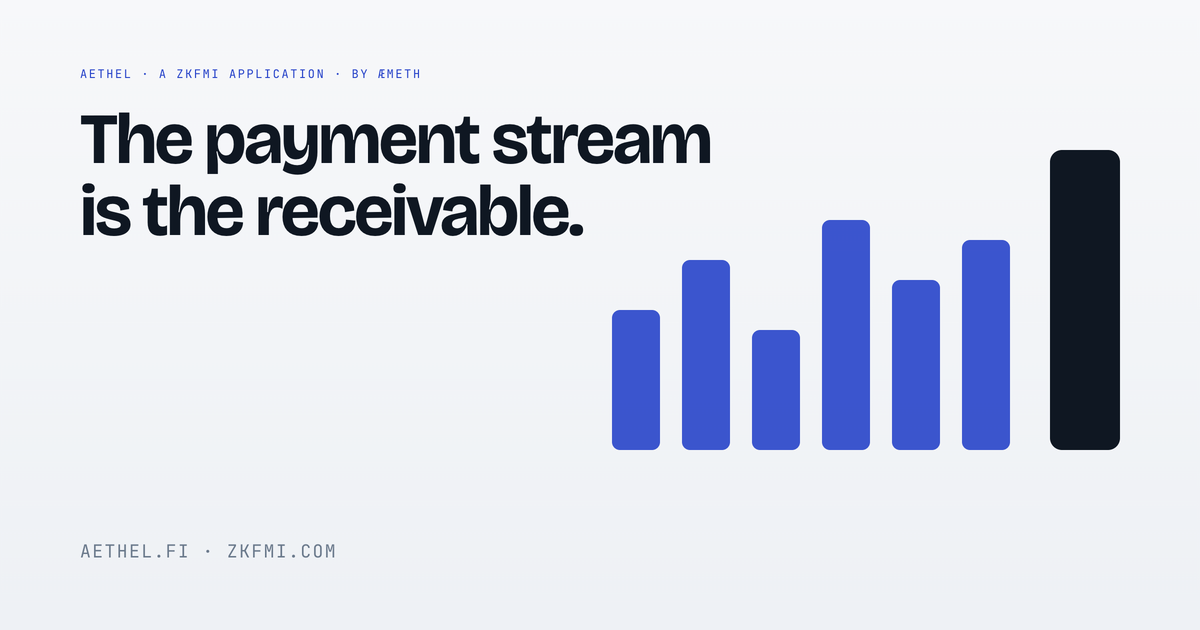
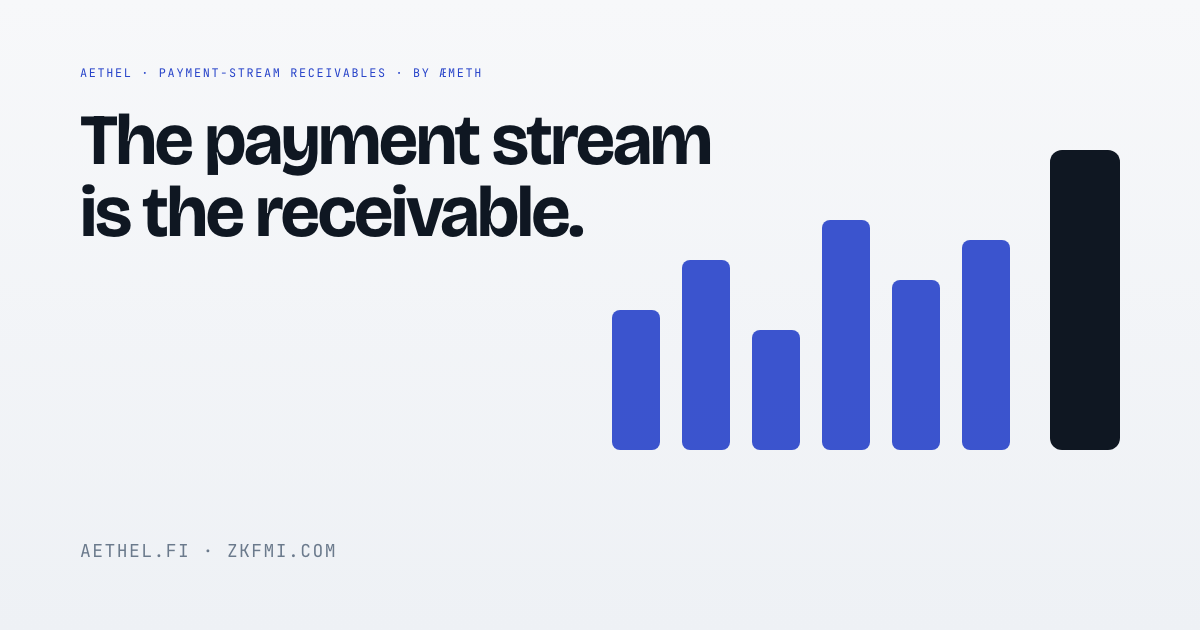
Describe the two settlement rails and the ports the book reaches them through
Add a Rails section (zkFMI rail, attested rail, SettlementRail and
QualificationPort), make the hero, lifecycle, boundaries, pilot and
status copy rail-neutral with zkFMI named as one rail, record the
2026-09-13 gate run, and re-render the social card.

diff --git a/static/style.css b/static/style.css
@@ -196,13 +196,21 @@ footer .end{grid-column:1/-1;display:flex;flex-wrap:wrap;gap:1.2rem 2rem;padding
 footer .end span{margin-right:auto}
 footer .end a:hover{color:var(--ink)}
 
+/* rails --------------------------------------------------------------- */
+.rails{display:grid;grid-template-columns:1fr 1fr;gap:1.2rem}
+.rails .crate{font-family:var(--mono);font-size:.78rem;color:var(--ink-3);letter-spacing:.02em}
+.ports{margin-top:1.2rem;display:grid;grid-template-columns:1fr 1fr;gap:1.2rem}
+.port{background:var(--bg-2);border:1px solid var(--line);border-radius:var(--r);padding:1.2rem 1.4rem;display:flex;flex-direction:column;gap:.5rem}
+.port code{font-family:var(--mono);font-size:.82rem;color:var(--blue)}
+.port p{margin:0;color:var(--ink-2);font-size:.93rem}
+
 /* responsive ----------------------------------------------------------- */
 @media(max-width:1000px){
   .hero-grid{grid-template-columns:1fr}
   .cards,.conf{grid-template-columns:1fr 1fr}
   .stages{grid-template-columns:1fr 1fr 1fr}
   .head{grid-template-columns:1fr;gap:.5rem}
-  .pilot,.limits{grid-template-columns:1fr}
+  .pilot,.limits,.rails,.ports{grid-template-columns:1fr}
 }
 @media(max-width:700px){
   .wrap{width:calc(100% - 2.5rem)}

diff --git a/brand/og.html b/brand/og.html
@@ -13,7 +13,7 @@ html,body{margin:0;width:1200px;height:630px;overflow:hidden;background:var(--bg
 .og .bars b{display:block;width:70px;height:300px;background:var(--ink);border-radius:12px;margin-left:18px}
 </style></head>
 <body><div class="og">
-<div><p class="eyebrow">Aethel · a zkFMI application · by æmeth</p><h1>The payment stream is the receivable.</h1></div>
+<div><p class="eyebrow">Aethel · payment-stream receivables · by æmeth</p><h1>The payment stream is the receivable.</h1></div>
 <div class="bars"><i style="height:140px"></i><i style="height:190px"></i><i style="height:120px"></i><i style="height:230px"></i><i style="height:170px"></i><i style="height:210px"></i><b></b></div>
 <div class="foot">aethel.fi · zkfmi.com</div>
 </div></body></html>

diff --git a/build.py b/build.py
@@ -27,29 +27,29 @@ def wm():
 COPY = {
  'en': {
   'title': 'Aethel — the payment stream is the receivable',
-  'description': 'Aethel turns a payment stream both parties have signed into a receivable that independent credit assessors, guarantors, liquidity providers and servicers act on with separately signed authority, and settles it through a pluggable settlement rail, zkFMI first, without holding the cash.',
-  'nav': [('product', 'Product'), ('lifecycle', 'Lifecycle'), ('providers', 'Providers'), ('boundaries', 'Boundaries'), ('pilot', 'Pilot'), ('status', 'Status')],
-  'eyebrow': 'Aethel · a zkFMI application', 'by': 'by æmeth',
+  'description': 'Aethel turns a payment stream both parties have signed into a receivable that independent credit assessors, guarantors, liquidity providers and servicers act on with separately signed authority, and settles it through a settlement rail it does not own, zkFMI or any system that returns signed attestations, without holding the cash.',
+  'nav': [('product', 'Product'), ('lifecycle', 'Lifecycle'), ('providers', 'Providers'), ('boundaries', 'Boundaries'), ('rails', 'Rails'), ('pilot', 'Pilot'), ('status', 'Status')],
+  'eyebrow': 'Aethel · payment-stream receivables', 'by': 'by æmeth',
   'h1': 'The payment stream is the receivable.',
-  'lede': 'Aethel takes a payment stream that both parties have signed and turns it into a receivable that independent credit assessors, guarantors, liquidity providers and servicers can act on, each with its own signed authority. It settles through a pluggable settlement rail, zkFMI being the first, and never holds the cash.',
+  'lede': 'Aethel takes a payment stream that both parties have signed and turns it into a receivable that independent credit assessors, guarantors, liquidity providers and servicers can act on, each with its own signed authority. It settles through a settlement rail it does not own, zkFMI or any system that returns signed attestations, and never holds the cash.',
   'cta': 'See the lifecycle', 'cta2': 'Enterprise PoC guide',
   'side_b': 'Built for the teams who run origination, credit, funding and servicing.',
   'side': 'Nothing here is a marketplace or a lender. Aethel is the state machine those teams plug their own providers into, and the record they can audit afterwards.',
-  'hero_note': ['Rust state machine', '12 crates', 'Research implementation', 'Not audited'],
+  'hero_note': ['Rust state machine', '13 crates', 'zkFMI or attested rail', 'Research implementation', 'Not audited'],
   'dg': {
     'stream_lbl': 'SIGNED PAYMENT STREAM', 'stream_id': 'strm-8f2c · v3', 'stream_sig': 'signed: obligor · creditor', 'stream_att': 'attested by StreamAttestor',
     'ticks': ['M+1', 'M+2', 'M+3', 'M+4', 'M+5', 'M+6'],
-    'rcv_lbl': 'RECEIVABLE', 'rcv_id': 'rcv-0142 · series S-07', 'rcv_pol': 'policy: guarantee required · DeKYX qualification',
-    'att': [('CreditDecision', 'signed · valid to 2026-10-01', 'CreditAssessor'), ('GuaranteeCommitment', 'committed · amount confidential', 'Guarantor · DeCCP hold'), ('FundingQuote', 'accepted', 'LiquidityProvider')],
-    'set_lbl': 'SETTLEMENT', 'set_1': 'zkPI instruction', 'set_1b': 'typed · nullifier · proof', 'set_2': 'DeFMI settles', 'set_2b': 'both legs, or neither',
-    'set_ev': 'evidence validated by host', 'set_state': 'Aethel state → Issued',
-    'out_paid': 'paid → Closed', 'out_def': 'default → GuaranteeClaim → DeCCP',
-    'cap': 'One receivable, four signatures from four providers, one settlement. Aethel keeps the meaning; DeFMI moves the value.',
+    'rcv_lbl': 'RECEIVABLE', 'rcv_id': 'rcv-0142 · series S-07', 'rcv_pol': 'policy: guarantee required · qualification via port',
+    'att': [('CreditDecision', 'signed · valid to 2026-10-01', 'CreditAssessor'), ('GuaranteeCommitment', 'committed · amount confidential', 'Guarantor · rail hold'), ('FundingQuote', 'accepted', 'LiquidityProvider')],
+    'set_lbl': 'SETTLEMENT RAIL', 'set_1': 'Issuance witness', 'set_1b': 'zkPI instruction, or signed attestation', 'set_2': 'The rail settles', 'set_2b': 'DeFMI, or the operator’s ledger',
+    'set_ev': 'evidence verified through the port', 'set_state': 'Aethel state → Issued',
+    'out_paid': 'paid → Closed', 'out_def': 'default → GuaranteeClaim → rail',
+    'cap': 'One receivable, four signatures from four providers, one settlement. Aethel keeps the meaning; the rail moves the value.',
   },
   'dg_list': [
     ('Signed payment stream', 'Both parties sign the schedule and terms; an attestor confirms it. Every update is a new version.'),
     ('Receivable', 'A series policy admits the stream. A credit decision, a guarantee and a funding quote attach, each signed by a different provider and bound to this receivable only.'),
-    ('Settlement', 'Issuance becomes a typed zkPI instruction. DeFMI settles it and Aethel records the evidence. Paid closes it; default binds a guarantee claim.'),
+    ('Settlement', 'The rail witnesses issuance: a settled zkPI instruction on zkFMI, an operator-signed settlement on the attested rail. Aethel records the evidence. Paid closes it; default binds a guarantee claim.'),
   ],
 
   'prod_eb': 'What Aethel is', 'prod_h2': 'Not another ledger of invoices. A state machine for obligations.',
@@ -64,10 +64,10 @@ COPY = {
   'life_p': 'The core is deterministic: the same inputs always produce the same state. What makes it useful is what it rejects.',
   'stages': [
     ('01 · Register', 'Attest the stream, open a series', 'The stream attestor confirms the payment stream and its updates. A series defines which streams are eligible and under what policy.', ['unsigned stream, or a version that does not match', 'the same obligation registered twice']),
-    ('02 · Assess & cover', 'Signed decisions, committed cover', 'A credit assessor signs a decision for this receivable. A guarantor commits coverage backed by a DeCCP facility; the amount can stay confidential.', ['expired decision', 'policy requires a guarantee and none is attached', 'artifact signed under the wrong capability']),
-    ('03 · Fund & issue', 'Quotes compete, the receivable is issued', 'Liquidity providers submit executable quotes. Issuance creates a typed zkPI instruction; DeFMI settles it and Aethel records the evidence.', ['final state before settlement evidence', 'quote from an unregistered provider', 'supply above the obligation']),
+    ('02 · Assess & cover', 'Signed decisions, committed cover', 'A credit assessor signs a decision for this receivable. A guarantor commits coverage from a facility the rail vouches for: a DeCCP hold on zkFMI, an operator-signed hold on the attested rail. The amount can stay confidential.', ['expired decision', 'policy requires a guarantee and none is attached', 'artifact signed under the wrong capability']),
+    ('03 · Fund & issue', 'Quotes compete, the receivable is issued', 'Liquidity providers submit executable quotes. Issuance is witnessed by the rail, a settled zkPI instruction or a signed attestation, and Aethel records the evidence.', ['final state before settlement evidence', 'quote from an unregistered provider', 'supply above the obligation']),
     ('04 · Service', 'Evidence in, state out', 'Payment evidence, delinquency, cure and permitted servicing actions are recorded by the servicer. A retried request applies once.', ['the same settlement result applied twice', 'servicing action outside the capability']),
-    ('05 · Close or claim', 'Paid closes. Default claims.', 'A paid obligation closes the receivable. A default attestation binds evidence to a guarantee claim; loss allocation runs in DeCCP, settlement in DeFMI.', ['claim without a default attestation', 'release by an unauthorised provider']),
+    ('05 · Close or claim', 'Paid closes. Default claims.', 'A paid obligation closes the receivable. A default attestation binds evidence to a guarantee claim; the rail allocates the loss and settles it, DeCCP and DeFMI on zkFMI.', ['claim without a default attestation', 'release by an unauthorised provider']),
   ],
   'refuses': 'Refused',
   'states_lbl': 'records', 'states': ['RegisteredStream', 'ReceivableSeries', 'CreditDecision', 'GuaranteeCommitment', 'FundingQuote', 'ReceivableIssuance', 'DefaultAttestation', 'GuaranteeClaim', 'ProviderDefinition'],
@@ -75,9 +75,9 @@ COPY = {
   'prov_eb': 'Open provider model', 'prov_h2': 'Six capabilities. None implies another.',
   'prov_p': 'Providers register with narrowly scoped capabilities and sign only the artifacts they are responsible for. A credit assessment cannot quietly act as a guarantee; a guarantor cannot issue a funding quote unless separately authorised. One company may hold several capabilities, each granted and revoked on its own.',
   'mx_cols': ['Stream attestation', 'Credit decision', 'Guarantee', 'Funding quote', 'Servicing action', 'Issuer vouch'],
-  'mx_rows': [('StreamAttestor', 'attests a stream and its updates'), ('CreditAssessor', 'signs a decision for one receivable'), ('Guarantor', 'commits cover from an external facility'), ('LiquidityProvider', 'submits an executable funding quote'), ('Servicer', 'performs permitted servicing actions'), ('CredentialIssuer', 'vouches for a DeKYX issuer key, nothing else')],
+  'mx_rows': [('StreamAttestor', 'attests a stream and its updates'), ('CreditAssessor', 'signs a decision for one receivable'), ('Guarantor', 'commits cover from an external facility'), ('LiquidityProvider', 'submits an executable funding quote'), ('Servicer', 'performs permitted servicing actions'), ('CredentialIssuer', 'vouches for a qualification issuer key, nothing else')],
   'mx_cap': 'A filled dot is the only artifact that capability may sign. Everything else is refused at the state transition, not by convention.',
-  'chips': ['<b>register</b> → active → suspended → revoked', 'key rotation: old signatures stay verifiable, new ones under the retired key are refused', 'DeKYX presentation can be required before a decision or guarantee is accepted'],
+  'chips': ['<b>register</b> → active → suspended → revoked', 'key rotation: old signatures stay verifiable, new ones under the retired key are refused', 'a qualification proof, DeKYX presentation or issuer statement, can be required before a decision or guarantee is accepted'],
 
   'bd_eb': 'Where things live', 'bd_h2': 'Aethel holds the meaning. Everything else stays where it is authoritative.',
   'bd_p': 'A receivable touches money, identity, guarantees and tokens. Aethel keeps one copy of each, in the system that is the record for it, and stores only references and digests. The same balance, qualification or facility is never copied into a second ledger.',
@@ -85,26 +85,35 @@ COPY = {
   'sor': [
     ('Payment stream, series, remaining principal', '<b>Aethel</b>', 'both signatures, versions, terms, current state'),
     ('Credit decision', 'the assessor signs · <b>Aethel</b> accepts as state', 'signed decision, target, version, validity, provider reference'),
-    ('Legal name, registration number, KYB evidence', '<b>DeKYX</b> issuer', 'pseudonymous subject reference and a qualification digest'),
-    ('Guarantee facility and remaining capacity', '<b>DeCCP</b> or the guarantor', 'opaque hold id and commitment; a settlement digest on release or claim'),
+    ('Legal name, registration number, KYB evidence', '<b>Qualification port</b> · DeKYX issuer, or an attesting issuer', 'pseudonymous subject reference and a qualification digest'),
+    ('Guarantee facility and remaining capacity', '<b>Settlement rail</b> · DeCCP, or the guarantor’s operator', 'opaque backing reference and commitment; settlement evidence on release or claim'),
     ('Token holdings per holder', '<b>DeFMI</b> or another asset ledger', 'supply caps and mint/burn intents with the ledger receipt; no per-holder balances'),
-    ('Cash, securities, collateral', '<b>DeFMI</b>', 'note, lock and settlement references; the confirmed root'),
-    ('Settlement instruction', '<b>zkPI</b>', 'instruction id, nullifier, domain, proof and signature summary'),
+    ('Cash, securities, collateral', '<b>Settlement rail</b> · DeFMI, or the operator’s ledger', 'backing references and settlement evidence; the confirmed root on zkFMI'),
+    ('Settlement instruction', '<b>Settlement rail</b> · zkPI on zkFMI, a signed attestation otherwise', 'instruction id, nullifier, domain and proof digest; or the attestation digest'),
   ],
   'conf': [
-    ('Anonymous qualification', 'A series can require a DeKYX presentation before a decision or guarantee is accepted. It is bound to this domain, action, artifact statement, nonce and expiry, so a proof for one decision cannot be replayed for another. Aethel keeps only the verified subject-line binding, never a legal name.', 'blue'),
-    ('Confidential cover', 'The guarantee amount may stay confidential. Aethel and DeCCP then exchange commitments, state digests, identifiers and verified transition receipts instead of a plaintext amount.', 'amber'),
+    ('Anonymous qualification', 'A series can require a qualification through the port before a decision or guarantee is accepted: a DeKYX presentation on zkFMI, an issuer-signed statement on the attested rail. It is bound to this domain, action, artifact statement, nonce and expiry, so a proof for one decision cannot be replayed for another. Aethel keeps only the verified subject-line binding, never a legal name.', 'blue'),
+    ('Confidential cover', 'The guarantee amount may stay confidential. Aethel and the rail then exchange commitments, state digests, identifiers and verified transition receipts instead of a plaintext amount; on zkFMI that counterpart is DeCCP.', 'amber'),
     ('Settlement with evidence', 'Issuance, releases and claims are verified by the settlement rail before the book moves. On zkFMI they become typed zkPI instructions that DeFMI settles; on the attested rail an operator-signed settlement is the witness. Aethel never advances on its own say-so.', 'teal'),
   ],
+
+  'rail_eb': 'Settlement rails', 'rail_h2': 'Two ports. Two rails shipped. The business crates depend on neither.',
+  'rail_p': 'Everything Aethel does not own is reached through two ports in the core: a settlement rail that vouches for backings and witnesses issuance, release and claim, and a qualification port that says who stands behind an anonymous line. The rail is chosen per deployment. The book, the artifacts and the tests are the same on either.',
+  'ports': [('SettlementRail', 'Is this guarantee or funding backing live? Does this witness settle exactly this issuance, release or claim?'), ('QualificationPort', 'Who stands behind this anonymous line, and does the proof bind to this decision and nothing else?')],
+  'rails': [
+    ('zkFMI rail', 'aethel-defmi-host · aethel-dekyx', 'zkPI instructions settled by DeFMI, DeCCP holds for confidential cover, DeKYX presentations for anonymous qualification. Requires the hybrid signature suite, Ed25519 + ML-DSA-65.', 'blue'),
+    ('Attested rail', 'aethel-rail-attested', 'Operator-signed holds, reservations and settlements; issuer-signed qualification statements. Ed25519 only, and no zkFMI crate in its dependency graph. A conventional settlement system that can sign its records is enough.', 'teal'),
+  ],
+  'rail_chips': ['nine business crates: no zkfmi, zkpi, defmi, deccp, dekyx or qomm in the normal dependency graph', 'signatures: Ed25519 by default, hybrid behind a cargo feature', 'a series policy may restrict which kinds of obligation it finances', 'switching rails changes the host, not the book'],
 
   'pilot_eb': 'Enterprise PoC', 'pilot_h2': 'Run it with your own roles, your own keys, and the failures you expect.',
   'pilot_p': 'The PoC guide walks from a signed stream to settlement, lists the failure cases that must be refused, the evidence to keep and example acceptance criteria. Roles are separated by key even when one team plays all of them; otherwise the separation of authority cannot be tested.',
   'scen_h': 'The minimal scenario',
-  'scen': ['Create a payment stream both parties sign, with subject references instead of raw identities', 'Register credit providers: keys, qualification conditions, decision validity, model version', 'Compose the receivable: matching version, unexpired decision, guarantee where the policy requires one', 'Fund and tokenise: supply never above the obligation, no reuse of redeemed rights', 'Service and collect: retries apply once, outcomes flow to holders once', 'Settle through zkPI and DeFMI; Aethel finalises only on confirmed evidence'],
+  'scen': ['Create a payment stream both parties sign, with subject references instead of raw identities', 'Register credit providers: keys, qualification conditions, decision validity, model version', 'Compose the receivable: matching version, unexpired decision, guarantee where the policy requires one', 'Fund and tokenise: supply never above the obligation, no reuse of redeemed rights', 'Service and collect: retries apply once, outcomes flow to holders once', 'Settle through the chosen rail; Aethel finalises only on evidence the rail has verified'],
   'fail_h': 'Must be refused',
   'fail': ['financing after the credit decision expired', 'issuing a guarantee-required product without a guarantee', 'a guarantee released by an unauthorised provider', 'acquiring tokens with a revoked qualification', 'the same stream registered twice under another identifier', 'a new decision signed with a rotated-out key', 'the same settlement result received twice', 'tokens above the remaining obligation'],
   'acc_h': 'Acceptance, at minimum',
-  'acc': ['authority for credit, guarantee and funding is independent', 'a required guarantee cannot be substituted by a credit decision', 'DeKYX revocation and key rotation reach new operations', 'if zkPI or DeFMI fails, Aethel’s settlement state does not finalise', 'after a retry, one business request applies exactly once', 'every material transition audits back to the input version and signature'],
+  'acc': ['authority for credit, guarantee and funding is independent', 'a required guarantee cannot be substituted by a credit decision', 'qualification revocation and key rotation reach new operations', 'if the rail refuses or fails, Aethel’s settlement state does not finalise', 'after a retry, one business request applies exactly once', 'every material transition audits back to the input version and signature'],
   'pilot_a': 'Enterprise PoC guide (Japanese)', 'pilot_b': 'Source', 'pilot_c': 'Aethel on zkfmi.com',
 
   'st_eb': 'Status and limits', 'st_h2': 'A research implementation, with the edges marked.',
@@ -114,40 +123,41 @@ COPY = {
     'Qualification is scope-pseudonymous, not issuer-unlinkable. Cross-issuer anti-Sybil policy is a governance decision outside the crate.',
     'Guarantee claims and releases are full-cover transitions; partial cover needs an extended state model.',
     'Legal assignment, perfection, tax, accounting and bankruptcy treatment of a receivable are outside the code and specific to each deployment.',
+    'Records are at wire version 2. Earlier snapshots are refused rather than migrated, because nothing is deployed yet.',
     'Passing the build gates is not a substitute for an independent cryptographic, financial, state-machine, host and integration audit.',
   ],
-  'gates': ['cargo test --workspace --locked', 'cargo clippy --workspace --all-targets --locked -- -D warnings', 'cargo fmt --all -- --check', 'cargo build --workspace --release --locked'],
-  'gates_note': '# the four gates, on Linux with the locked dependency graph',
+  'gates': ['cargo test --workspace --locked', 'cargo clippy --workspace --all-targets --locked -- -D warnings', 'cargo fmt --all -- --check', 'cargo build --workspace --release --locked', 'cargo tree -p aethel --edges normal   # no zkfmi, zkpi, defmi, deccp, dekyx'],
+  'gates_note': '# the four gates, on Linux with the locked dependency graph · last run 2026-09-13, rust 1.97, 74 tests',
 
   'f_tag': 'Payment streams, composed.',
-  'f_note': 'Aethel is a payment-stream receivables application in the zkFMI stack, developed by',
+  'f_note': 'Aethel is a payment-stream receivables application that settles on zkFMI or on an attested rail, developed by',
   'skip': 'Skip to content', 'lang': '日本語', 'lang_href': 'ja/', 'lang_code': 'ja', 'navlabel': 'Main',
  },
  'ja': {
   'title': 'Aethel — 支払の流れが、そのまま債権になる',
-  'description': 'Aethelは、両当事者が署名した支払ストリームを債権に変え、独立した与信評価者・保証者・資金供給者・回収管理者がそれぞれ署名した権限で関わる仕組みです。決済は差し替え可能な決済レール（最初はzkFMI）で行い、Aethel自身は資金を保有しません。',
-  'nav': [('product', 'プロダクト'), ('lifecycle', '債権の流れ'), ('providers', '提供者の権限'), ('boundaries', '正本の所在'), ('pilot', '企業PoC'), ('status', '現状と限界')],
-  'eyebrow': 'Aethel · zkFMI アプリケーション', 'by': 'æmeth 開発',
+  'description': 'Aethelは、両当事者が署名した支払ストリームを債権に変え、独立した与信評価者・保証者・資金供給者・回収管理者がそれぞれ署名した権限で関わる仕組みです。決済はAethelの外にある決済レールで行います。zkFMIでも、署名付きの記録を返す通常の決済システムでも構いません。Aethel自身は資金を保有しません。',
+  'nav': [('product', 'プロダクト'), ('lifecycle', '債権の流れ'), ('providers', '提供者の権限'), ('boundaries', '正本の所在'), ('rails', '決済レール'), ('pilot', '企業PoC'), ('status', '現状と限界')],
+  'eyebrow': 'Aethel · 支払ストリーム債権', 'by': 'æmeth 開発',
   'h1': '支払の流れが、そのまま債権になる。',
-  'lede': 'Aethelは、両当事者が署名した支払ストリームを債権に変えます。独立した与信評価者・保証者・資金供給者・回収管理者が、それぞれ自分で署名した権限の範囲で関わります。決済は差し替え可能な決済レール（最初はzkFMI）で行い、Aethel自身は資金を保有しません。',
+  'lede': 'Aethelは、両当事者が署名した支払ストリームを債権に変えます。独立した与信評価者・保証者・資金供給者・回収管理者が、それぞれ自分で署名した権限の範囲で関わります。決済はAethelの外にある決済レールで行います。zkFMIでも、署名付きの記録を返す通常の決済システムでも構いません。Aethel自身は資金を保有しません。',
   'cta': '債権の流れを見る', 'cta2': '企業向けPoCガイド',
   'side_b': '債権の組成・与信・資金供給・回収を実際に担当するチームのために。',
   'side': 'ここにあるのは、マーケットプレイスでも貸し手でもありません。担当チームが自社の提供者を接続する状態機械であり、あとから監査できる記録です。',
-  'hero_note': ['Rust の状態機械', '12 クレート', '研究実装', '監査未実施'],
+  'hero_note': ['Rust の状態機械', '13 クレート', 'zkFMI または attested レール', '研究実装', '監査未実施'],
   'dg': {
     'stream_lbl': '署名済み支払ストリーム', 'stream_id': 'strm-8f2c · v3', 'stream_sig': '署名: 支払義務者 · 債権者', 'stream_att': 'StreamAttestor が証明',
     'ticks': ['M+1', 'M+2', 'M+3', 'M+4', 'M+5', 'M+6'],
-    'rcv_lbl': '債権', 'rcv_id': 'rcv-0142 · series S-07', 'rcv_pol': '方針: 保証必須 · DeKYX 資格',
-    'att': [('CreditDecision', '署名済 · 2026-10-01 まで有効', 'CreditAssessor'), ('GuaranteeCommitment', '約束済 · 金額は秘匿', 'Guarantor · DeCCP hold'), ('FundingQuote', '受諾', 'LiquidityProvider')],
-    'set_lbl': '決済', 'set_1': 'zkPI 指図', 'set_1b': '型付き · nullifier · 証明', 'set_2': 'DeFMI が決済', 'set_2b': '両方動くか、どちらも動かない',
-    'set_ev': 'ホストが証跡を検証', 'set_state': 'Aethel の状態 → Issued',
-    'out_paid': '完済 → Closed', 'out_def': '不履行 → GuaranteeClaim → DeCCP',
-    'cap': '一つの債権に、四つの提供者の四つの署名、一つの決済。Aethelは意味を持ち、DeFMIが価値を動かす。',
+    'rcv_lbl': '債権', 'rcv_id': 'rcv-0142 · series S-07', 'rcv_pol': '方針: 保証必須 · ポート経由の資格確認',
+    'att': [('CreditDecision', '署名済 · 2026-10-01 まで有効', 'CreditAssessor'), ('GuaranteeCommitment', '約束済 · 金額は秘匿', 'Guarantor · rail hold'), ('FundingQuote', '受諾', 'LiquidityProvider')],
+    'set_lbl': '決済レール', 'set_1': '発行の証跡', 'set_1b': 'zkPI 指図、または署名付き attestation', 'set_2': 'レールが決済', 'set_2b': 'DeFMI、またはオペレーターの台帳',
+    'set_ev': 'ポート経由で証跡を検証', 'set_state': 'Aethel の状態 → Issued',
+    'out_paid': '完済 → Closed', 'out_def': '不履行 → GuaranteeClaim → レール',
+    'cap': '一つの債権に、四つの提供者の四つの署名、一つの決済。Aethelは意味を持ち、レールが価値を動かす。',
   },
   'dg_list': [
     ('署名済み支払ストリーム', '両当事者が支払予定と条件に署名し、証明者が確認します。更新はすべて新しい版になります。'),
     ('債権', 'シリーズの方針がストリームを受け入れます。与信判断・保証・資金供給見積が、それぞれ別の提供者の署名付きで、この債権だけに結び付きます。'),
-    ('決済', '発行は型付きのzkPI指図になります。DeFMIが決済し、Aethelは証跡を記録します。完済で終了し、不履行なら保証請求に結び付けます。'),
+    ('決済', '発行の証跡は決済レールが出します。zkFMIでは決済済みのzkPI指図、attestedレールではオペレーター署名の決済記録です。Aethelはその証跡を記録します。完済で終了し、不履行なら保証請求に結び付けます。'),
   ],
 
   'prod_eb': 'Aethel とは', 'prod_h2': '請求書の台帳ではなく、支払義務の状態機械。',
@@ -162,10 +172,10 @@ COPY = {
   'life_p': 'コアは決定的です。同じ入力からは必ず同じ状態になります。役に立つのは、何を拒否するかが決まっているからです。',
   'stages': [
     ('01 · 登録', 'ストリームを証明し、シリーズを開く', 'ストリーム証明者が支払ストリームとその更新を確認します。シリーズが、対象となるストリームと方針を定めます。', ['署名のないストリーム、版の不一致', '同じ支払義務の二重登録']),
-    ('02 · 与信と保証', '署名付きの判断、約束された保証', '与信評価者がこの債権への判断に署名します。保証者がDeCCPの保証枠に裏付けられた保証を約束します。金額は秘匿できます。', ['期限切れの判断', '方針が保証を求めるのに保証がない', '権限の異なる署名']),
-    ('03 · 資金供給と発行', '見積が競い、債権が発行される', '資金供給者が実行可能な見積を出します。発行は型付きのzkPI指図になり、DeFMIが決済し、Aethelが証跡を記録します。', ['決済証跡より先の確定', '未登録の提供者からの見積', '支払義務を超える発行']),
+    ('02 · 与信と保証', '署名付きの判断、約束された保証', '与信評価者がこの債権への判断に署名します。保証者は、レールが裏付ける保証枠から保証を約束します。zkFMIではDeCCPのhold、attestedレールではオペレーター署名のholdです。金額は秘匿できます。', ['期限切れの判断', '方針が保証を求めるのに保証がない', '権限の異なる署名']),
+    ('03 · 資金供給と発行', '見積が競い、債権が発行される', '資金供給者が実行可能な見積を出します。発行はレールが証跡を出し（決済済みのzkPI指図、または署名付きattestation）、Aethelがそれを記録します。', ['決済証跡より先の確定', '未登録の提供者からの見積', '支払義務を超える発行']),
     ('04 · 回収管理', '証跡が入り、状態が出る', '支払証跡、延滞、解消、許可された回収操作を回収管理者が記録します。再試行された依頼は一度だけ反映されます。', ['同じ決済結果の二重反映', '権限外の回収操作']),
-    ('05 · 完済または請求', '完済なら終了。不履行なら請求。', '完済した支払義務は債権を終了します。不履行の証明が保証請求に結び付き、損失配賦はDeCCPで、決済はDeFMIで行われます。', ['不履行証明のない請求', '権限のない提供者による解放']),
+    ('05 · 完済または請求', '完済なら終了。不履行なら請求。', '完済した支払義務は債権を終了します。不履行の証明が保証請求に結び付き、損失配賦と決済はレールが行います。zkFMIではDeCCPとDeFMIです。', ['不履行証明のない請求', '権限のない提供者による解放']),
   ],
   'refuses': '拒否されるもの',
   'states_lbl': '記録', 'states': ['RegisteredStream', 'ReceivableSeries', 'CreditDecision', 'GuaranteeCommitment', 'FundingQuote', 'ReceivableIssuance', 'DefaultAttestation', 'GuaranteeClaim', 'ProviderDefinition'],
@@ -173,9 +183,9 @@ COPY = {
   'prov_eb': '開かれた提供者モデル', 'prov_h2': '六つの権限。どれも他を含意しない。',
   'prov_p': '提供者は狭く限定された権限で登録され、自分が責任を持つ成果物にだけ署名します。与信判断が黙って保証として振る舞うことはなく、保証者が別途認可なしに資金供給見積を出すこともできません。一社が複数の権限を持ってもよく、それぞれ個別に付与・失効します。',
   'mx_cols': ['ストリーム証明', '与信判断', '保証', '資金供給見積', '回収操作', '発行者の承認'],
-  'mx_rows': [('StreamAttestor', 'ストリームとその更新を証明する'), ('CreditAssessor', '一つの債権への判断に署名する'), ('Guarantor', '外部の保証枠から保証を約束する'), ('LiquidityProvider', '実行可能な資金供給見積を出す'), ('Servicer', '許可された回収操作を行う'), ('CredentialIssuer', 'DeKYXの発行者鍵を承認する。それ以外は何もしない')],
+  'mx_rows': [('StreamAttestor', 'ストリームとその更新を証明する'), ('CreditAssessor', '一つの債権への判断に署名する'), ('Guarantor', '外部の保証枠から保証を約束する'), ('LiquidityProvider', '実行可能な資金供給見積を出す'), ('Servicer', '許可された回収操作を行う'), ('CredentialIssuer', '資格確認の発行者鍵を承認する。それ以外は何もしない')],
   'mx_cap': '塗りつぶした点が、その権限で署名できる唯一の成果物です。それ以外は慣習ではなく状態遷移で拒否されます。',
-  'chips': ['<b>登録</b> → 有効 → 停止 → 失効', '鍵更新: 旧鍵の署名は検証でき、旧鍵での新しい署名は拒否', '判断や保証の受理前にDeKYXの提示を必須にできる'],
+  'chips': ['<b>登録</b> → 有効 → 停止 → 失効', '鍵更新: 旧鍵の署名は検証でき、旧鍵での新しい署名は拒否', '判断や保証の受理前に、資格の証明（DeKYXの提示、または発行者の署名付き表明）を必須にできる'],
 
   'bd_eb': '正本の所在', 'bd_h2': 'Aethelは意味を持つ。それ以外は、正本のある場所に置いたまま。',
   'bd_p': '債権には、資金・本人性・保証・トークンが関わります。Aethelはそれぞれを一箇所、正本となるシステムにだけ置き、自分は参照とダイジェストだけを保存します。同じ残高・資格・保証枠を二つ目の台帳へ複製しません。',
@@ -183,26 +193,35 @@ COPY = {
   'sor': [
     ('支払ストリーム、シリーズ、残存元本', '<b>Aethel</b>', '両当事者の署名、版、条件、現在の状態'),
     ('与信判断', '評価者が署名 · <b>Aethel</b>が状態として受理', '署名付き判断、対象、版、有効期限、提供者参照'),
-    ('法的名称、登録番号、KYB証跡', '<b>DeKYX</b> 発行者', '仮名の主体参照と資格のダイジェスト'),
-    ('保証枠と残容量', '<b>DeCCP</b> または保証者', 'opaqueなhold IDとcommitment。解放・請求時はsettlement digest'),
+    ('法的名称、登録番号、KYB証跡', '<b>資格確認ポート</b> · DeKYX発行者、または表明する発行者', '仮名の主体参照と資格のダイジェスト'),
+    ('保証枠と残容量', '<b>決済レール</b> · DeCCP、または保証者のオペレーター', 'opaqueなbacking参照とcommitment。解放・請求時はsettlement evidence'),
     ('保有者別のトークン残高', '<b>DeFMI</b> 等の外部asset ledger', '発行上限とmint/burnのintent、ledgerのreceipt。保有者別残高は持たない'),
-    ('資金、証券、担保', '<b>DeFMI</b>', 'note・lock・settlementの参照と確定root'),
-    ('決済指図', '<b>zkPI</b>', '指図ID、nullifier、domain、証明と署名の要約'),
+    ('資金、証券、担保', '<b>決済レール</b> · DeFMI、またはオペレーターの台帳', 'backing参照とsettlement evidence。zkFMIでは確定root'),
+    ('決済指図', '<b>決済レール</b> · zkFMIではzkPI、それ以外は署名付きattestation', '指図ID、nullifier、domain、証明のダイジェスト。またはattestationのダイジェスト'),
   ],
   'conf': [
-    ('匿名の資格確認', '判断や保証を受理する前に、シリーズがDeKYXの提示を必須にできます。提示はこのドメイン・行為・成果物の文・nonce・期限に結び付くので、ある判断のための証明を別の判断へ使い回せません。Aethelは検証済みの主体参照だけを持ち、法的名称は持ちません。', 'blue'),
-    ('秘匿された保証', '保証額は秘匿できます。その場合、AethelとDeCCPは平文の金額ではなく、commitment・状態ダイジェスト・識別子・検証済みの遷移receiptを交換します。', 'amber'),
+    ('匿名の資格確認', '判断や保証を受理する前に、シリーズがポート経由の資格確認を必須にできます。zkFMIではDeKYXの提示、attestedレールでは発行者の署名付き表明です。証明はこのドメイン・行為・成果物の文・nonce・期限に結び付くので、ある判断のための証明を別の判断へ使い回せません。Aethelは検証済みの主体参照だけを持ち、法的名称は持ちません。', 'blue'),
+    ('秘匿された保証', '保証額は秘匿できます。その場合、Aethelとレールは平文の金額ではなく、commitment・状態ダイジェスト・識別子・検証済みの遷移receiptを交換します。zkFMIでは相手がDeCCPです。', 'amber'),
     ('証跡と引き換えの決済', '発行・解放・請求は、Bookが動く前に決済レールが検証します。zkFMIでは型付きのzkPI指図になりDeFMIが決済し、attestedレールではオペレーターが署名した決済記録が証跡になります。Aethelが自分の判断だけで先へ進むことはありません。', 'teal'),
   ],
+
+  'rail_eb': '決済レール', 'rail_h2': '二つのポート。同梱するレールは二本。業務クレートはどちらにも依存しない。',
+  'rail_p': 'Aethelが持たないものには、コアの二つのポートを通してだけ触れます。裏付けを保証し、発行・解放・請求の証跡を出す決済レール。匿名の枠の背後に誰がいるかを答える資格確認ポート。レールは導入ごとに選び、Book・成果物・テストはどちらでも同じです。',
+  'ports': [('SettlementRail', 'この保証や資金供給の裏付けは生きているか。この証跡は、まさにこの発行・解放・請求を決済したものか。'), ('QualificationPort', 'この匿名の枠の背後に誰がいるか。証明はこの判断だけに結び付いているか。')],
+  'rails': [
+    ('zkFMI レール', 'aethel-defmi-host · aethel-dekyx', 'DeFMIが決済するzkPI指図、秘匿保証のためのDeCCP hold、匿名資格確認のためのDeKYX提示。署名はEd25519 + ML-DSA-65のhybridが必須です。', 'blue'),
+    ('attested レール', 'aethel-rail-attested', 'オペレーター署名のhold・reservation・settlementと、発行者署名の資格表明。Ed25519のみで、依存グラフにzkFMIのクレートはありません。記録に署名できる通常の決済システムがあれば足ります。', 'teal'),
+  ],
+  'rail_chips': ['業務クレート9個の通常依存グラフに zkfmi・zkpi・defmi・deccp・dekyx・qomm なし', '署名: 既定はEd25519。hybridはcargo featureで追加', 'シリーズの方針で、扱う支払義務の種類を限定できる', 'レールを替えて変わるのはホストであって、Bookではない'],
 
   'pilot_eb': '企業向けPoC', 'pilot_h2': '自社の役割と鍵で動かし、想定する失敗をぶつける。',
   'pilot_p': 'PoCガイドは、署名済みストリームから決済までの最小シナリオ、拒否されなければならない失敗系、保存すべき証拠、受入基準の例を示します。一つのチームが全役割を演じる場合でも、鍵は役割ごとに分けます。分けなければ権限分離を検証できないからです。',
   'scen_h': '最小シナリオ',
-  'scen': ['両当事者が署名する支払ストリームを作る。生の本人情報ではなく主体参照を使う', '与信事業者を登録する。鍵、資格条件、判断の有効期限、モデルの版', '債権を組成する。版の一致、期限内の判断、方針が求める保証', '資金供給とトークン化。発行総数は支払義務を超えず、償還済みの権利は再利用しない', '回収管理。再試行は一度だけ反映され、結果は保有者へ一度だけ配分される', 'zkPIとDeFMIで決済する。Aethelは確定した証跡を受けてから確定する'],
+  'scen': ['両当事者が署名する支払ストリームを作る。生の本人情報ではなく主体参照を使う', '与信事業者を登録する。鍵、資格条件、判断の有効期限、モデルの版', '債権を組成する。版の一致、期限内の判断、方針が求める保証', '資金供給とトークン化。発行総数は支払義務を超えず、償還済みの権利は再利用しない', '回収管理。再試行は一度だけ反映され、結果は保有者へ一度だけ配分される', '選んだレールで決済する。Aethelはレールが検証した証跡を受けてから確定する'],
   'fail_h': '拒否されなければならないもの',
-  'fail': ['与信判断の期限切れ後の債権化', '保証必須の商品を保証なしで発行', '権限のない事業者による保証の解除', '失効したDeKYX資格でのトークン取得', '同じストリームを別の識別子で二重登録', '更新前の鍵による新しい与信判断への署名', '同じ決済結果の二回受信', '残存する支払義務を超えるトークン発行'],
+  'fail': ['与信判断の期限切れ後の債権化', '保証必須の商品を保証なしで発行', '権限のない事業者による保証の解除', '失効した資格でのトークン取得', '同じストリームを別の識別子で二重登録', '更新前の鍵による新しい与信判断への署名', '同じ決済結果の二回受信', '残存する支払義務を超えるトークン発行'],
   'acc_h': '受入基準（最低限）',
-  'acc': ['与信・保証・資金供給の権限が独立している', '方針が求める保証を与信判断で代替できない', 'DeKYXの失効・鍵更新が新しい処理へ反映される', 'zkPIまたはDeFMIが失敗した場合、Aethelの決済状態が確定しない', '再試行後も一つの業務依頼が一度だけ反映される', 'すべての重要な状態遷移を、入力の版と署名まで遡って監査できる'],
+  'acc': ['与信・保証・資金供給の権限が独立している', '方針が求める保証を与信判断で代替できない', '資格の失効・鍵更新が新しい処理へ反映される', 'レールが拒否または失敗した場合、Aethelの決済状態が確定しない', '再試行後も一つの業務依頼が一度だけ反映される', 'すべての重要な状態遷移を、入力の版と署名まで遡って監査できる'],
   'pilot_a': '企業向けPoCガイド', 'pilot_b': 'ソースコード', 'pilot_c': 'zkfmi.com の Aethel',
 
   'st_eb': '現状と限界', 'st_h2': '研究実装。境界は明記してある。',
@@ -212,13 +231,14 @@ COPY = {
     '資格確認はスコープ内の仮名性であり、発行者間の非連結性はありません。発行者をまたぐSybil対策はクレートの外のガバナンス判断です。',
     '保証請求と解放は全額を対象とする遷移です。部分保証には拡張した状態モデルが必要です。',
     '債権譲渡の法的効力、対抗要件、税務、会計、倒産時の取扱いはコードの外にあり、導入ごとに定めます。',
+    '記録のwire版は2です。稼働中の導入がないため、以前のスナップショットは移行せず拒否します。',
     'ビルドの4ゲートに通ることは、暗号・金融・状態機械・ホスト・接続の独立した監査の代わりになりません。',
   ],
-  'gates': ['cargo test --workspace --locked', 'cargo clippy --workspace --all-targets --locked -- -D warnings', 'cargo fmt --all -- --check', 'cargo build --workspace --release --locked'],
-  'gates_note': '# 4つのゲート。Linux、固定した依存グラフで',
+  'gates': ['cargo test --workspace --locked', 'cargo clippy --workspace --all-targets --locked -- -D warnings', 'cargo fmt --all -- --check', 'cargo build --workspace --release --locked', 'cargo tree -p aethel --edges normal   # zkfmi, zkpi, defmi, deccp, dekyx なし'],
+  'gates_note': '# 4つのゲート。Linux、固定した依存グラフで · 最終実行 2026-09-13、rust 1.97、74テスト',
 
   'f_tag': '支払ストリームを、組み合わせる。',
-  'f_note': 'Aethelは、zkFMI体系の支払ストリーム債権アプリケーションです。開発:',
+  'f_note': 'Aethelは、zkFMIでもattestedレールでも決済できる支払ストリーム債権アプリケーションです。開発:',
   'skip': '本文へ移動', 'lang': 'EN', 'lang_href': '../', 'lang_code': 'en', 'navlabel': 'メイン',
  },
 }
@@ -312,6 +332,9 @@ def render(lang):
     fail = ''.join(f'<li>{escape(s)}</li>' for s in d['fail'])
     acc = ''.join(f'<li>{escape(s)}</li>' for s in d['acc'])
     limits = ''.join(f'<li>{escape(s)}</li>' for s in d['limits'])
+    rails = ''.join(f'<article class="cardx {cls}"><h3>{escape(t)}</h3><code class="crate">{escape(c)}</code><p>{escape(b)}</p></article>' for t, c, b, cls in d['rails'])
+    ports = ''.join(f'<div class="port"><code>{escape(n)}</code><p>{escape(q)}</p></div>' for n, q in d['ports'])
+    rail_chips = ''.join(f'<span class="chip">{escape(c)}</span>' for c in d['rail_chips'])
     gates = f'<span>{escape(d["gates_note"])}</span><br>' + '<br>'.join(escape(g) for g in d['gates'])
     return f'''<!doctype html>
 <html lang="{lang}">
@@ -383,7 +406,14 @@ def render(lang):
 <div class="conf">{conf}</div>
 </div></section>
 
-<section class="section" id="pilot"><div class="wrap">
+<section class="section" id="rails"><div class="wrap">
+<div class="head"><p class="eyebrow">{escape(d['rail_eb'])}</p><div><h2>{escape(d['rail_h2'])}</h2><p>{escape(d['rail_p'])}</p></div></div>
+<div class="rails">{rails}</div>
+<div class="ports">{ports}</div>
+<div class="chips">{rail_chips}</div>
+</div></section>
+
+<section class="section bg-2" id="pilot"><div class="wrap">
 <div class="head"><p class="eyebrow">{escape(d['pilot_eb'])}</p><div><h2>{escape(d['pilot_h2'])}</h2><p>{escape(d['pilot_p'])}</p></div></div>
 <div class="pilot">
 <div class="pane"><h3>{escape(d['scen_h'])}</h3><ol>{scen}</ol></div>
@@ -393,7 +423,7 @@ def render(lang):
 <div class="actions pilot-actions"><a class="btn primary" href="{POC}">{escape(d['pilot_a'])} <span class="arr">↗</span></a><a class="btn" href="{REPO}">{escape(d['pilot_b'])} <span class="arr">↗</span></a><a class="btn" href="{zk}docs/aethel.html">{escape(d['pilot_c'])} <span class="arr">↗</span></a></div>
 </div></section>
 
-<section class="section bg-2" id="status"><div class="wrap">
+<section class="section" id="status"><div class="wrap">
 <div class="head"><p class="eyebrow">{escape(d['st_eb'])}</p><div><h2>{escape(d['st_h2'])}</h2></div></div>
 <ul class="limits">{limits}</ul>
 <pre class="gates">{gates}</pre>

diff --git a/README.md b/README.md
@@ -1,7 +1,7 @@
 # Aethel website
 
 English and Japanese product pages for Aethel, the payment-stream receivables
-application in the zkFMI stack, published with GitHub Pages.
+application that settles on zkFMI or on an attested rail, published with GitHub Pages.
 
 ## Develop
 
@@ -36,7 +36,10 @@ enforcement are in place. Links to æmeth point at `https://aemeth.fi/`.
 Product statements follow `zkFMI/aethel` (README, the enterprise PoC guide and
 the "current limits" list on zkfmi.com). Aethel records the meaning and
 lifecycle of a receivable; cash, securities, title, identity records and
-guarantee ledgers stay in DeFMI, DeKYX and DeCCP, and the site says so.
+guarantee ledgers stay at the settlement rail and qualification port the
+deployment chooses (DeFMI, DeKYX and DeCCP on zkFMI; operator- and
+issuer-signed records on the attested rail), and the site says so. Rail
+statements follow `docs/RAIL_INDEPENDENCE_JA.md` in `zkFMI/aethel`.
 Research status and limitations must remain explicit. No unverified
 affiliations or financing offers are published. No contact email is configured
 at the user's request.
